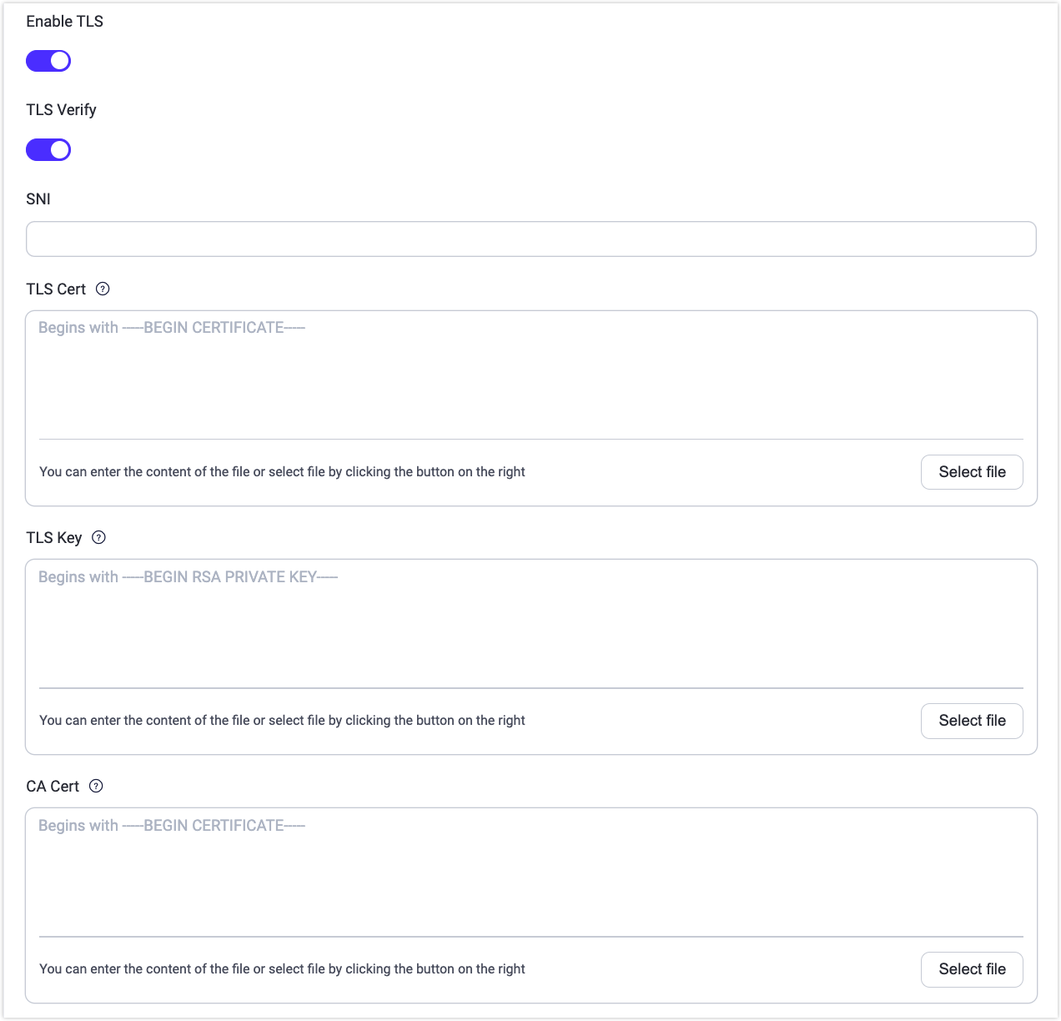
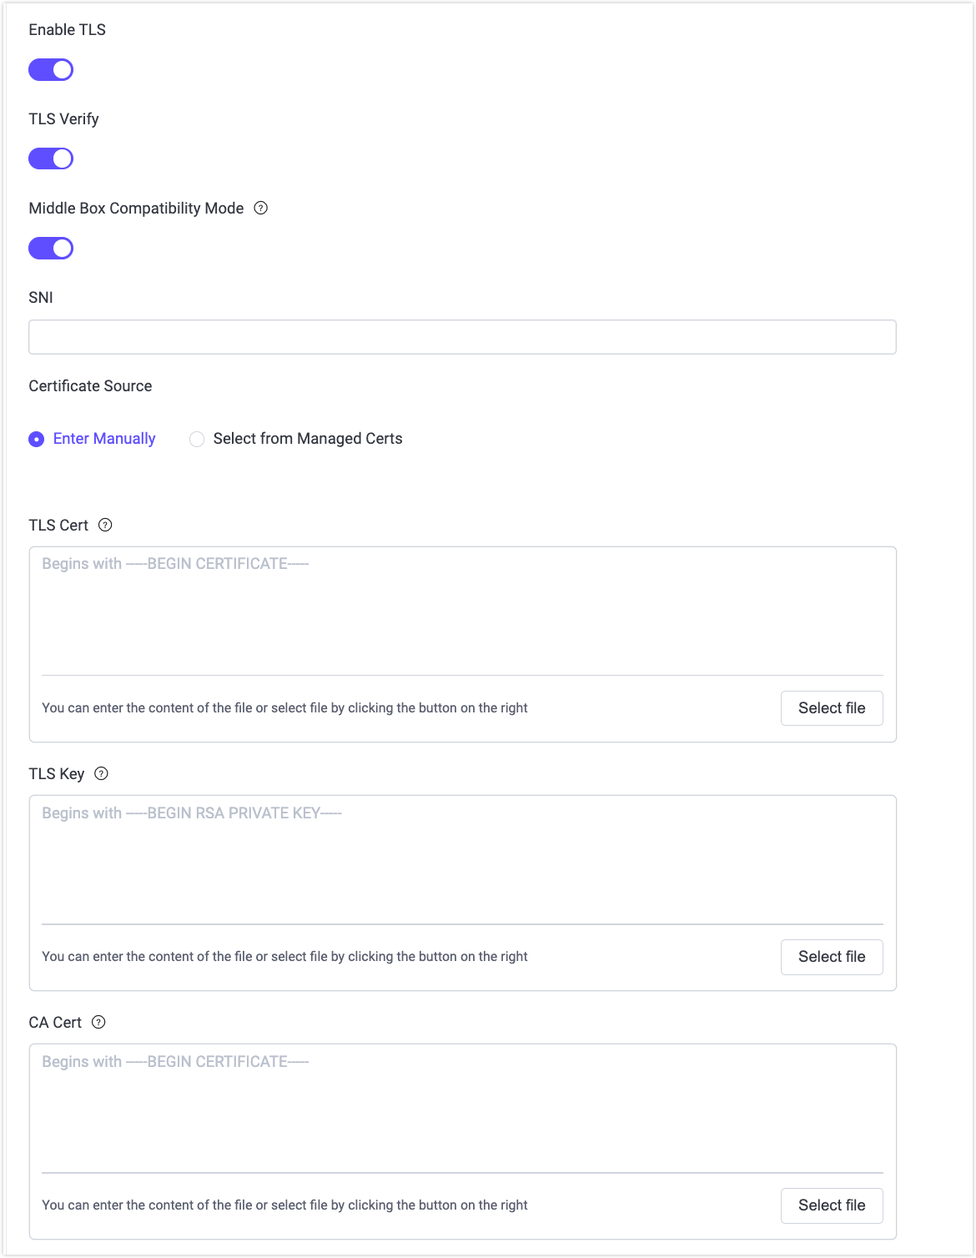
Update landing page and configuration examples

diff --git a/en_US/network/emqx-mqtt-tls.md b/en_US/network/emqx-mqtt-tls.md
@@ -1,4 +1,4 @@
-# Enable SSL/TLS Connection
+# Enable SSL/TLS Connections
 
 EMQX can establish secure connections via SSL/TLS when accepting the access of an MQTT Client. The SSL/TLS encryption functionality encrypts network connections at the transport layer, enhancing the security of communication data while ensuring its integrity.
 
@@ -44,7 +44,12 @@ For a complete guide on obtaining, managing, and using SSL/TLS certificates in E
 
 By default, EMQX enables an SSL/TLS listener on port `8883` and configures it for one-way authentication, where the client verifies the server certificate, but the server does not verify the client's certificate.
 
-You can configure the SSL/TLS listener via the Dashboard or configuration files to replace certificates and adjust other TLS-related settings.
+You can configure the SSL/TLS listener via the Dashboard or via the configuration file. In both cases, EMQX supports two certificate provisioning methods:
+
+- File-based certificates (traditional PEM files)
+- Managed certificates (introduced in EMQX 6.1)
+
+Choose the method that best fits your deployment and operational model.
 
 ### Enable via Dashboard
 
@@ -107,53 +112,72 @@ You can also enable the SSL/TLS connection by modifying the `listeners.ssl.defau
 
 1. Place your private SSL/TLS certificate files in the `etc/certs` directory of EMQX.
 
-2. Open the configuration file `base.hocon` (located in either the `./etc` or `/etc/emqx/etc` directory depending on your installation method). 
+2. Open the configuration file `base.hocon` (located in either the `./etc` or `/etc/emqx/etc` directory, depending on your installation method). 
 
-3. Modify the `listeners.ssl.default` configuration group. Replace the certificate files with your own certificate files.
+3. Modify the `listeners.ssl.default` configuration group. 
 
-   If you need to enable one-way authentication, add `verify = verify_none`:
+   - Use certificates stored as files on disk. Replace the certificate files with your own. To enable one-way authentication, add `verify = verify_none`:
 
-```bash
-listeners.ssl.default {
-  bind = "0.0.0.0:8883"
-  ssl_options {
-    # PEM file containing the trusted CA (certificate authority) certificates that the listener uses to verify the authenticity of the client certificates.
-    # For one-way authentication, the file content can be empty.
-    cacertfile = "etc/certs/rootCAs.pem"
-    # PEM file containing the SSL/TLS certificate chain for the listener.
-    # If the certificate is not directly issued by a root CA, the intermediate CA certificates should be appended after the listener certificate to form a chain.
-    certfile = "etc/certs/server-cert.pem"
-    # PEM file containing the private key corresponding to the SSL/TLS certificate.
-    keyfile = "etc/certs/server-key.pem"
-    # Set `verify_peer` to verify the authenticity of the client certificates. Must be set to 'verify_peer' for two-way authentication (mTLS).
-    # Set 'verify_none' to allow any client to connect, regardless of the client certificate.
-    verify = verify_none
-    # If set to `true`, the handshake fails if the client does not have a certificate to send. Must be set to `true` for two-way authentication (mTLS).
-    # If set to `false`, it fails only if the client sends an invalid certificate (an empty certificate is considered valid). i.e. one-way authentication.
-    fail_if_no_peer_cert = true
-  }
-}
-```
+     ```hocon
+     listeners.ssl.default {
+       bind = "0.0.0.0:8883"
+       
+       ssl_options {
+         cacertfile = "etc/certs/rootCAs.pem"
+         certfile = "etc/certs/server-cert.pem"
+         keyfile = "etc/certs/server-key.pem"
+         
+         verify = verify_none
+         fail_if_no_peer_cert = true
+       }
+     }
+     ```
 
-### EMQX v4 configuration
+     **Configuration details:**
 
-**In the EMQX, the default listening port of `mqtt:ssl` is 8883.**
+     - **`cacertfile`**: Path to the PEM file containing trusted CA certificates used to verify client certificates. For one-way authentication, this file may be empty or contain no CA certificates.
+     - **`certfile`**: Path to the PEM file containing the server’s SSL/TLS certificate chain. If the server certificate used by the listener is not issued directly by a root CA, append any intermediate CA certificates after the server certificate in `certfile` to form a complete chain.
+     - **`keyfile`**: Path to the PEM file containing the private key corresponding to the server certificate.
+     - **`verify`**: Controls whether EMQX verifies client certificates:
+       - `verify_none`: Client certificates are not verified (one-way authentication).
+       - `verify_peer`: Client certificates are verified (required for two-way authentication / mTLS).
+     - **`fail_if_no_peer_cert`**: Determines handshake behavior when a client does not present a certificate:
+       - `false`: Allows connections without a client certificate, and rejects the connection only if a certificate is presented but is invalid (one-way authentication).
+       - `true`: Rejects connections if the client does not provide a certificate (required for mTLS).
 
-Copy the file `emqx.pem`, `emqx.key` and `ca.pem` generated by OpenSSL tool into the directory `etc/certs/` of EMQX, and refer the following configuration to modify `base.hocon`:
+   - Use certificates managed centrally via EMQX and referenced by name.
 
-```shell
-## listener.ssl.$name is the IP address and port that the MQTT/SSL
-## Value: IP:Port | Port
-listener.ssl.external = 8883
+     > Managed certificate bundles must be created in advance via the Dashboard or HTTP API. The listener configuration only references existing managed certificates.
 
-# PEM file containing the private key corresponding to the SSL/TLS certificate.
-listener.ssl.external.keyfile = etc/certs/emqx.key
+     ```
+     listeners.ssl.default {
+       bind = "0.0.0.0:8883"
+     
+       ssl_options {
+         certs = [
+           {
+             namespace = "global"
+             name = "example-cert-1"
+             sni  = "example.com"
+           },
+           {
+             namespace = "global"
+             name = "example-cert-2"
+             sni  = "api.example.com"
+           }
+         ]
+     
+         # One-way authentication
+         verify = verify_none
+         fail_if_no_peer_cert = false
+       }
+     }
+     ```
 
-# PEM file containing the SSL/TLS certificate chain for the listener.
-        fail_if_no_peer_cert = false
-      }
-    }
-```
+     When multiple managed certificates are configured:
+
+     - EMQX selects the certificate based on the client’s SNI.
+     - If no SNI match is found, the first certificate entry is used as the default.
 
 4. Restart EMQX to apply the configuration.
 
@@ -188,7 +212,7 @@ Two-way authentication is an extension of one-way authentication, where EMQX is 
 
 In addition to this, you will need to generate certificates for the client. For specific operations, refer to [Issue Client Certificates](./tls-certificate.md#issue-client-certificates).
 
-For the Dashboard method, you can choose to **Enable** under **TLS Verify**, and configure the **Fail if No Peer Cert** option to `true` to enforce two-way authentication.
+For the Dashboard method, you can choose to **Enable** under **Verify Peer**, and configure the **Force Verify Peer Certificate** option to `true` to enforce two-way authentication.
 
 You can also add the following configuration to the `listeners.ssl.default` configuration group in the configuration file:
 

diff --git a/en_US/network/overview.md b/en_US/network/overview.md
@@ -10,42 +10,74 @@ EMQX adopts SSL and TLS cryptographic protocols to ensure secure network communi
 
 EMQX provides comprehensive support for SSL/TLS capabilities, including support for one-way/two-way authentication and X.509 certificate authentication.
 
-## TLS for Client Connection
+## TLS for Client Connections
 
-The [Enable SSL/TLS Connection](./emqx-mqtt-tls.md) section in this chapter introduces how to enable an SSL/TLS connection between the MQTT client and EMQX in detail. The [Obtain SSL/TLS Certificates](./tls-certificate.md) page provides you with instructions on creating self-signed certificates. To further enhance the security with the SSL/TLS enabled, you can also enable the [CRL check](./crl.md) for certificate verification and [OCSP stapling](./ocsp.md) for revocation status checking of the SSL/TLS certificate. The [Client TLS](./mqtt-client-tls.md) section provides information on the sample MQTT client code and project. The TLS use guide is included in these samples.
+EMQX supports SSL/TLS encryption for MQTT client connections, enabling secure, encrypted communication between clients and the broker. You can configure TLS listeners to support one-way authentication (server authentication only) or two-way authentication (mTLS), depending on your security requirements.
+
+The [Enable SSL/TLS Connections](./emqx-mqtt-tls.md) section in this chapter provides a step-by-step guide to configuring TLS listeners for MQTT clients, including listener configuration via the Dashboard and configuration files.
+
+### Certificate Management
+
+Starting from EMQX 6.1, SSL/TLS certificate management has been significantly enhanced. The SSL/TLS Certificates page covers the complete lifecycle of certificates used by EMQX. For details, see [SSL/TLS Certificates](./tls-certificate.md).
+
+### Certificate Validation and Revocation
+
+To further enhance TLS security, EMQX supports certificate validation and revocation checks:
+
+- **CRL Check**: Verifies whether certificates have been revoked using Certificate Revocation Lists. See [CRL Check](./crl.md).
+- **OCSP Stapling**: Checks certificate revocation status via the Online Certificate Status Protocol. See [OCSP Stapling](./ocsp.md).
+
+These features can be enabled when configuring TLS listeners and help protect against the use of compromised certificates.
+
+### Client-Side TLS Examples
+
+The [Client TLS](./mqtt-client-tls.md) section provides sample MQTT client code and example projects demonstrating how to connect securely to EMQX using SSL/TLS. These examples include practical guidance on configuring client certificates, trust stores, and TLS options.
 
 ## TLS for External Resource Access
 
-EMQX also offers you the option of enabling TLS when there is a need to access external resources. For example, when using password-based authentication with access to a web server via HTTPS or connecting to a database for data integration. You can switch on the **Enable TLS** when configuring these features on the EMQX Dashboard.
+EMQX also supports SSL/TLS encryption when accessing external resources, such as HTTP-based authentication services, databases, or other data integration targets. You can enable TLS for these connections directly from the EMQX Dashboard by turning on the **Enable TLS** option when configuring the corresponding feature.
 
-- **SNI** means Server Name Indication, indicating whether the server domain name and certificate are verified to be the same; A null value means no validation.
-- When the server needs to verify the client certificate, the **TLS Cert** and **TLS Key** must be filled in.
-- When **TLS Verify** is enabled, the **CA Cert** field must be filled in to verify the legitimacy of the server certificate.
+### TLS Configuration Options in Dashboard
+
+After enabling TLS, the following options are available:
+
+- **TLS Verify**: Controls whether the server certificate of the external resource is verified. When enabled, EMQX validates the server’s certificate chain.
+- **Middle Box Compatibility Mode**: Enables compatibility mode for TLS 1.3 connections. Some network middle boxes may mishandle standard TLS 1.3 handshakes. When this option is enabled, EMQX adapts the TLS 1.3 handshake to resemble TLS 1.2, improving connection success in such environments.
+- **SNI**: Server Name Indication, indicating whether the server domain name and certificate are verified to be the same during the TLS handshake. If left empty, no hostname validation is performed.
+- **Certificate Source**: Determines how client-side certificates are provided when required:
+  - **Enter Manually**: Provide certificate contents or files directly.
+  - **Select from Managed Certs**: Reference an existing certificate bundle managed centrally by EMQX (EMQX 6.1+). This allows certificates to be reused across listeners and integrations and simplifies certificate rotation. For details on creating and managing certificate bundles, see [Managed Certificates](./tls-certificate.md#managed-certificates).
+- **TLS Cert / TLS Key**: Required when the external server verifies the client certificate (mutual TLS).
+- **CA Cert**: Required when **TLS Verify** is enabled, to validate the server’s certificate.
 
 <img src="./assets/enable-TLS-dashboard.png" alt="enable-TLS-dashboard" style="zoom:50%;" />
 
-In addition, you can add `ssl` options when you configure the features in the configuration file. For example, you can configure the `authentication` group in the configuration file by adding the following statement:
+### TLS Configuration via Configuration File
 
-```bash
+You can also enable TLS for external resource access by configuring the corresponding `ssl` options in the configuration file. For example, when configuring an HTTP-based authentication backend:
+
+```hocon
 authentication {
   url = "https://127.0.0.1:8080"
   backend = "http"
 
-  ...
-
   ssl {
     enable = true
-    # PEM format file containing the trusted CA (certificate authority) certificates that the HTTP client uses to verify the authenticity of the HTTP server.
     cacertfile = "etc/certs/cacert.pem"
-    # PEM format file containing the SSL/TLS certificate chain for the HTTP client to send. If the certificate is not directly issued by a root CA, the intermediate CA certificates should be appended after the listener certificate to form a chain.
-    certfile = "etc/certs/cert.pem"
-    # PEM format file containing the private key corresponding to the certificate
-    keyfile = "etc/certs/key.pem"
-    ## Set 'verify_peer' to verify the authenticity of the server's certificate chain, otherwise 'verify_none'
-    verify = verify_peer
+    certfile   = "etc/certs/cert.pem"
+    keyfile    = "etc/certs/key.pem"
+    verify     = verify_peer
   }
 }
 ```
+
+In this example:
+
+- TLS is enabled for outbound connections to the external service.
+- The server certificate is verified using the specified CA certificate.
+- Client certificates are provided for mutual TLS authentication.
+
+Managed certificates can also be referenced in configuration files for external resources, following the same certificate management model used by listeners. For more details about configuration options, see [Enable SSL/TLS with One-Way Authentication](./emqx-mqtt-tls.md).
 
 ## TLS for Nodes Communication
 

diff --git a/en_US/gateway/mqttsn.md b/en_US/gateway/mqttsn.md
@@ -140,13 +140,13 @@ Click **Add Listener** to open **Add Listener** page, where you can continue wit
 
 **DTLS Settings** (for DTLS listeners only)
 
-You can set whether to enable the TLS Verify by setting the toggle switch. But before that, you need to configure the related **TLS Cert**, **TLS Key**, and **CA Cert** information, either by entering the content of the file or uploading with the **Select File** button. For details, see [Enable SSL/TLS Connection](../network/emqx-mqtt-tls.md).
+You can set whether to enable **TLS Verify** by setting the toggle switch. But before that, you need to configure the related **TLS Cert**, **TLS Key**, and **CA Cert** information, either by entering the content of the file or uploading it with the **Select File** button. For details, see [Enable SSL/TLS Connections](../network/emqx-mqtt-tls.md).
 
 Then you can continue to set:
 
 - **DTLS Versions**: Set the DTLS versions supported, default, **dtlsv1.2** and **dtlsv1**. 
 - **Fail If No Peer Cert**: Set whether EMQX will reject the connection if the client sends an empty certificate, default: **false**, optional values: **true**, **false**. 
-- **Intermediate Certificate Depth**: Set the maximum number of non-self-issued intermediate certificates that can be included in a valid certification path following the peer certificate, default, **10**.
+- **Intermediate Certificate Depth**: Set the maximum number of non-self-issued intermediate certificates that can be included in a valid certification path following the peer certificate, default: **10**.
 - **Key Password**: Set the user's password, used only when the private key is password-protected. 
 
 ### Configure Authentication
@@ -161,9 +161,9 @@ The client information generation rules are as follows:
 
 This part takes the Dashboard as an example to illustrate how to do the authentication configuration. 
 
-On the **Gateways** page, locate **MQTT-SN** and click **Setup** in the **Actions** column and click **Authentication** to enter the **Authentication** tab. 
+On the **Gateways** page, locate **MQTT-SN** and click **Setup** in the **Actions** column, and click **Authentication** to enter the **Authentication** tab. 
 
-Click **Create Authentication**, choose **Password-Based** as the **Mechanism**, and select **HTTP Server** as the **Backend**. Then in the **Configuration** tab, you can set the authentication rules. 
+Click **Create Authentication**, choose **Password-Based** as the **Mechanism**, and select **HTTP Server** as the **Backend**. Then, in the **Configuration** tab, you can set the authentication rules. 
 
 ![mqttsn authentication](./assets/mqttsn-authn-config.png)
 

diff --git a/en_US/gateway/exproto.md b/en_US/gateway/exproto.md
@@ -141,7 +141,7 @@ On the Gateways page, locate **ExProto**. Click **Settings** in the **Actions** 
 - **MountPoint**: Set a string that is prefixed to all topics when publishing or subscribing, providing a way to implement message routing isolation between different protocols, for example, `mqttsn/`. This topic prefix is managed by the gateway. Clients do not need to add this prefix explicitly when publishing and subscribing.
 - **gRPC ConnectionAdapter**: Set the configurations for starting the `ConnectionAdapter` service.
   - **Bind**: Listening address and port for the gRPC server; default: **0.0.0.0:9100**.
-    - **TLS Verify Client**: Enable or disable peer verification; disabled by default. When enabled, you can configure the related **TLS Cert**, **TLS Key**, and **CA Cert** information, either by entering the content of the file or uploading it with the **Select File** button. For details, see [Enable SSL/TLS Connection](../network/emqx-mqtt-tls.md).
+    - **TLS Verify Client**: Enable or disable peer verification; disabled by default. When enabled, you can configure the related **TLS Cert**, **TLS Key**, and **CA Cert** information, either by entering the content of the file or uploading it with the **Select File** button. For details, see [Enable SSL/TLS Connections](../network/emqx-mqtt-tls.md).
 - **gRPC ConnectionHandler**: Set the callback server configurations that implemented ConnectionUnaryHandler.
   - **Server**: The callback gRPC server address.
     - **Enable TLS**: Enable the TLS connection for gRPC server; disabled by default. When enabled, you can further set the configurations below:

diff --git a/en_US/deploy/cluster/security.md b/en_US/deploy/cluster/security.md
@@ -24,9 +24,9 @@ All nodes to join the cluster should use the same security cookie. For details a
 
 ## Configure TLS/SSL to Secure Cluster Connections
 
-EMQX also supports using TLS to secure the communication channel between EMQX nodes to protect the confidentiality, integrity, and authenticity of the data exchanged between them. TLS comes at the cost of increased CPU load and RAM usage, please configure as per your business needs. 
+EMQX also supports using TLS to secure the communication channel between EMQX nodes to protect the confidentiality, integrity, and authenticity of the data exchanged between them. TLS comes at the cost of increased CPU load and RAM usage. Please configure as per your business needs. 
 
-This section introduces how to configure TLS for EMQX clusters. On how to obtain an SSL/TLS certificate, see [Enable SSL/TLS Connection](../../network/emqx-mqtt-tls.md). 
+This section introduces how to configure TLS for EMQX clusters. On how to obtain an SSL/TLS certificate, see [SSL/TLS Certificates](../../network/tls-certificate.md). 
 
 ## Use TLS/SSL for Cluster RPC Connections
 

diff --git a/en_US/gateway/coap.md b/en_US/gateway/coap.md
@@ -151,7 +151,7 @@ Click **Add Listener** to open **Add Listener** page, where you can continue wit
 
 **DTLS Settings** (for DTLS listeners only)
 
-You can set whether to enable the TLS Verify by setting the toggle switch. But before that, you need to configure the related **TLS Cert**, **TLS Key**, and **CA Cert** information, either by entering the content of the file or uploading with the **Select File** button. For details, see [Enable SSL/TLS Connection](https://docs.emqx.com/en/enterprise/v5.0/network/emqx-mqtt-tls.html).
+You can set whether to enable the TLS Verify by setting the toggle switch. But before that, you need to configure the related **TLS Cert**, **TLS Key**, and **CA Cert** information, either by entering the content of the file or uploading with the **Select File** button. For details, see [Enable SSL/TLS Connections](https://docs.emqx.com/en/enterprise/v5.0/network/emqx-mqtt-tls.html).
 
 ### Configure Authentication
 

diff --git a/en_US/migration/migrate-from-aws-iot-core.md b/en_US/migration/migrate-from-aws-iot-core.md
@@ -53,7 +53,7 @@ With your CA certificate located, the next step is to configure the EMQX broker 
 
 The core of the migration is enabling two-way SSL/TLS authentication (mTLS) on an EMQX listener. This configuration instructs EMQX to demand a certificate from the connecting client and verify its authenticity against your CA.
 
-For detailed information on SSL/TLS configuration options, see [Enable SSL/TLS Connection](../network/emqx-mqtt-tls.md). For certificate management, see [TLS Certificates](../network/tls-certificate.md).
+For detailed information on SSL/TLS configuration options, see [Enable SSL/TLS Connections](../network/emqx-mqtt-tls.md). For certificate management, see [TLS Certificates](../network/tls-certificate.md).
 
 **Action**: Open the EMQX configuration file (e.g., `emqx.conf`) and configure the SSL/TLS listener, or use the Dashboard (**Management** -> **Listeners**):
 

diff --git a/en_US/gateway/ocpp.md b/en_US/gateway/ocpp.md
@@ -201,7 +201,7 @@ Click **Add Listener** to open **Add Listener** page, where you can continue wit
 
 **SSL Settings** (for wss listeners only)
 
-You can set whether to enable the TLS Verify by setting the toggle switch. But before that, you need to configure the related **TLS Cert**, **TLS Key**, and **CA Cert** information, either by entering the content of the file or uploading with the **Select File** button. For details, see [Enable SSL/TLS Connection](../network/emqx-mqtt-tls.md).
+You can set whether to enable the TLS Verify by setting the toggle switch. But before that, you need to configure the related **TLS Cert**, **TLS Key**, and **CA Cert** information, either by entering the content of the file or uploading with the **Select File** button. For details, see [Enable SSL/TLS Connections](../network/emqx-mqtt-tls.md).
 
 Then you can continue to set:
 

diff --git a/en_US/gateway/stomp.md b/en_US/gateway/stomp.md
@@ -134,7 +134,7 @@ Click **Add Listener** to open **Add Listener** page, where you can continue wit
 
 **SSL Settings **(for SSL listeners only)
 
-You can set whether to enable the TLS Verify by setting the toggle switch. But before that, you need to configure the related **TLS Cert**, **TLS Key**, and **CA Cert** information, either by entering the content of the file or uploading with the **Select File** button. For details, see [Enable SSL/TLS Connection](../network/emqx-mqtt-tls.md).
+You can set whether to enable the TLS Verify by setting the toggle switch. But before that, you need to configure the related **TLS Cert**, **TLS Key**, and **CA Cert** information, either by entering the content of the file or uploading with the **Select File** button. For details, see [Enable SSL/TLS Connections](../network/emqx-mqtt-tls.md).
 
 Then you can continue to set:
 

diff --git a/en_US/gateway/gbt32960.md b/en_US/gateway/gbt32960.md
@@ -133,7 +133,7 @@ Click **Add Listener** to open **Add Listener** page, where you can continue wit
 
 **SSL Settings **(for SSL listeners only)
 
-You can set whether to enable TLS Verify by setting the toggle switch. But before that, you need to configure the related **TLS Cert**, **TLS Key**, and **CA Cert** information, either by entering the content of the file or uploading it with the **Select File** button. For details, see [Enable SSL/TLS Connection](../network/emqx-mqtt-tls.md).
+You can set whether to enable TLS Verify by setting the toggle switch. But before that, you need to configure the related **TLS Cert**, **TLS Key**, and **CA Cert** information, either by entering the content of the file or uploading it with the **Select File** button. For details, see [Enable SSL/TLS Connections](../network/emqx-mqtt-tls.md).
 
 Then you can continue to set:
 

diff --git a/en_US/network/tls-certificate.md b/en_US/network/tls-certificate.md
@@ -9,7 +9,7 @@ This page explains:
 - How managed certificates work (EMQX 6.1+).
 - How EMQX supports multiple certificates and Automated Certificate Management Environment (ACME) automation.
 
-For details on enabling TLS on specific listeners, see [Enable SSL/TLS Connection](./emqx-mqtt-tls.md).
+For details on enabling TLS on specific listeners, see [Enable SSL/TLS Connections](./emqx-mqtt-tls.md).
 
 ## Overview
 
@@ -428,4 +428,4 @@ EMQX supports rotating SSL/TLS certificates without restarting. By default, EMQX
 
 Once you obtain the SSL/TLS certificates, you can enable the client's SSL/TLS connections. You can also update the certificates when they are expired.
 
-- [Enable SSL/TLS Connection](./emqx-mqtt-tls.md)
+- [Enable SSL/TLS Connections](./emqx-mqtt-tls.md)

diff --git a/en_US/migration/migrate-from-azure-iot-hub.md b/en_US/migration/migrate-from-azure-iot-hub.md
@@ -84,7 +84,7 @@ Configure EMQX to authenticate devices using the same CA and identity-mapping ru
 
 ### Enable and Configure the mTLS Listener
 
-Configure EMQX to enable two-way SSL/TLS authentication (mTLS) on the SSL listener. For detailed information on SSL/TLS configuration, see [Enable SSL/TLS Connection](../network/emqx-mqtt-tls.md).
+Configure EMQX to enable two-way SSL/TLS authentication (mTLS) on the SSL listener. For detailed information on SSL/TLS configuration, see [Enable SSL/TLS Connections](../network/emqx-mqtt-tls.md).
 
 Open the EMQX configuration file (`emqx.conf`) and configure the SSL/TLS listener, or use the Dashboard (**Management** -> **Listeners**):
 
